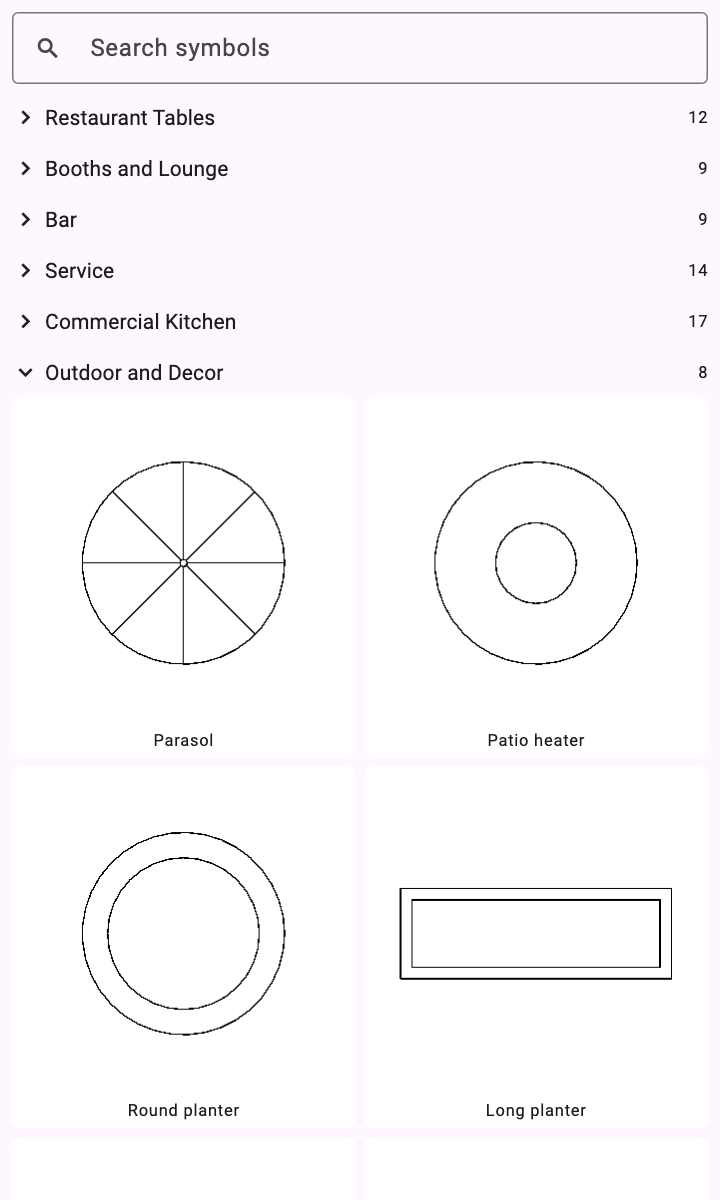
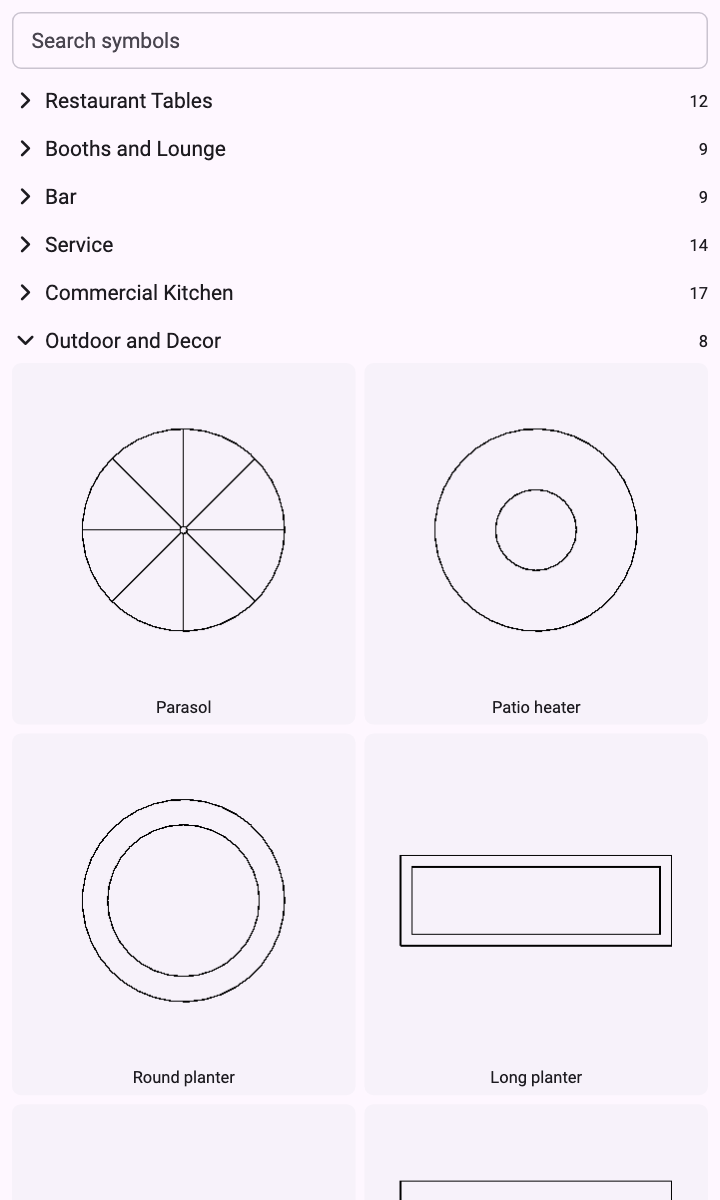
docs: the host guide, CHANGELOGs and screenshots for the shadcn chrome

diff --git a/docs/host-guide.md b/docs/host-guide.md
@@ -70,8 +70,15 @@ Import only the packages' barrels, `package:jet_cad_2d_plan/jet_cad_2d_plan.dart
 and the kits' own. Anything under `src/` is not API.
 
 The packages need Flutter 3.44 or later (the Dart that comes with it);
-0.9.0 is built and tested with Flutter 3.47.6. They bring no build hook and
-no GPU renderer: nothing runs at build time beyond Flutter's own.
+0.9.0 is built and tested with Flutter 3.47.6. The planner's chrome is
+`shadcn_ui` (`^0.57.1`), and that package needs Dart 3.11: the plan library's
+own SDK floor is unchanged, but a host that depends on it needs Dart 3.11
+through `shadcn_ui`. A host that already uses `shadcn_ui` moves to `^0.57.1`
+(the planner and the host share one copy). There is no GPU renderer, and
+the one build hook the packages bring is `objective_c`'s native-assets hook,
+which `shadcn_ui` pulls in (through `universal_image`, `extended_image_library`
+and `path_provider_foundation`) for Apple platforms; no hook of the packages'
+own runs at build time.
 
 The imports the snippets below need:
 
@@ -1226,11 +1233,23 @@ class _TwoViewsState extends State<TwoViews> {
 
 ## 10. Themes and your own widgets
 
-The planner follows the host's `ThemeData`: its colour scheme for the bars,
-panels, buttons and dialogs, and a `PlanTheme` **extension** for the plan's
-own look: status fills and captions, group frames and chips, the selection,
-the focus veil, the canvas background and the service bar's height. Put one
-in each of the host's themes; the system picks light or dark:
+The planner's chrome (bars, panels, buttons, fields, selects, menus, tooltips
+and the export dialog) is `shadcn_ui`; its canvas look is a `PlanTheme`
+**extension**. Which design system your app uses decides what you put around
+the view:
+
+- **A shadcn host** puts its `ShadTheme` (or `ShadApp`) above the view; the
+  planner uses it as is.
+- **A Material host** needs nothing. The chrome is derived from the ambient
+  `ThemeData`: its colours, its brightness and its font family. Light and dark
+  themes work as before.
+- **Icons** are Lucide icons. `IconData` stays the API: a kit may give any
+  icon, and the architecture kit's tool icons are Lucide.
+
+`PlanTheme` is for the plan's own look: status fills and captions, group
+frames and chips, the selection, the focus veil, the canvas background and
+the service bar's height (`serviceBarHeight` still sizes the service bar).
+Put one in each of the host's themes; the system picks light or dark:
 
 ```dart
 /// The planner's look in the POS's light theme.
@@ -1257,13 +1276,24 @@ final ThemeData posLightTheme = ThemeData(
   default. `theme:` on a view overrides the ambient extension field by field.
 - The selection colours are chosen by the paper (light or dark), not by the
   theme.
-- A POS whose own design system is not Material builds a `ColorScheme` by
-  hand from its tokens and puts it in a local `Theme` around the view; a
-  seeded scheme cannot reproduce another design system's colours.
-  `apps/restaurant_demo/lib/demo_theme.dart` does this.
+- A POS whose own design system is shadcn puts a `ShadTheme` with its tokens
+  around the view; a Material scheme cannot reproduce another design
+  system's colours. The restaurant demo's POS look is a `ShadTheme` (zinc):
+  `apps/restaurant_demo/lib/demo_theme.dart`.
 - `PlanTheme.unitColourOpacity` is the opacity of a unit's own colour
   (`setUnitColour`, `setUnitsColour`); the export draws it at the same
   opacity as the screen.
+
+**Moving to the shadcn chrome (0.9.x hosts).** What a host sees:
+
+- Icon buttons are 40 px (they were 48), the service bar is painted with the
+  shadcn background, and the export dialog is a shadcn dialog.
+- A widget test that found Material types inside the planner (`IconButton`,
+  `TextField`, `DropdownButton`, `SegmentedButton`, `Tooltip`, `ListTile`,
+  `AlertDialog`) finds the planner's own widgets now; the keys are
+  unchanged, so a finder by key keeps working. An open select or menu keeps
+  the keyboard, as a Material route did.
+- A host on `shadcn_ui` is on `^0.57.1`; a Material host adds nothing.
 
 **Your own widgets on the tables.** A view calls `unitOverlayBuilder` for
 each table to draw, in the modes in `unitOverlayModes` (service by default),

diff --git a/packages/jet_cad_2d_plan/CHANGELOG.md b/packages/jet_cad_2d_plan/CHANGELOG.md
@@ -1,5 +1,23 @@
 ## Unreleased
 
+- **The chrome is shadcn.** Bars, panels, buttons, fields, selects, menus,
+  tooltips and the export dialog are `shadcn_ui` (`^0.57.1`) widgets, and the
+  icons are Lucide. A host's `ShadTheme` above the view is used as is; a
+  Material host needs nothing, the chrome is derived from its `ThemeData`
+  (colours, brightness, font family). `PlanTheme` is unchanged (the canvas
+  look; `serviceBarHeight` still sizes the service bar), the `IconData` API
+  is unchanged, and the package's SDK floor stays `^3.6.0`.
+- **Requirements.** Dart 3.11 through `shadcn_ui`; a host that uses
+  `shadcn_ui` moves to `^0.57.1`. `shadcn_ui` brings `objective_c`'s
+  native-assets build hook (through `universal_image`, `extended_image_library`
+  and `path_provider_foundation`).
+- **Behaviour changes for existing hosts.** A widget test that found Material
+  types inside the planner (`IconButton`, `TextField`, `DropdownButton`,
+  `SegmentedButton`, `Tooltip`, `ListTile`, `AlertDialog`) finds the library's
+  own parts now; keys are unchanged. An open select or menu keeps the
+  keyboard, as a Material route did. Icon buttons are 40 px (were 48), the
+  service bar is painted with the shadcn background, and the export dialog is
+  a shadcn dialog.
 - **Alignment guides** (smart guides), in both modes. While a movable object
   is dragged or placed, lines show where its edges or its centre line up with
   a nearby object, or where its gap equals another gap (small gap marks, no

diff --git a/CHANGELOG.md b/CHANGELOG.md
@@ -25,6 +25,12 @@ A host depends on the plan library and the kits it loads from pub.dev (see
 released together, by git, under one version and one tag (`vX.Y.Z`); that
 shared history follows, unchanged.
 
+## Unreleased
+
+`jet_cad_2d_plan`'s chrome is `shadcn_ui` (`^0.57.1`, Dart 3.11 through it)
+and its icons are Lucide, as are the architecture kit's tool icons; see the
+`jet_cad_2d_plan` and `jet_cad_2d_kit_architecture` CHANGELOGs.
+
 ## Latest releases
 
 0.7.2 of `jet_cad_2d`, `jet_cad_2d_flutter` and `jet_cad_floor_plan`
